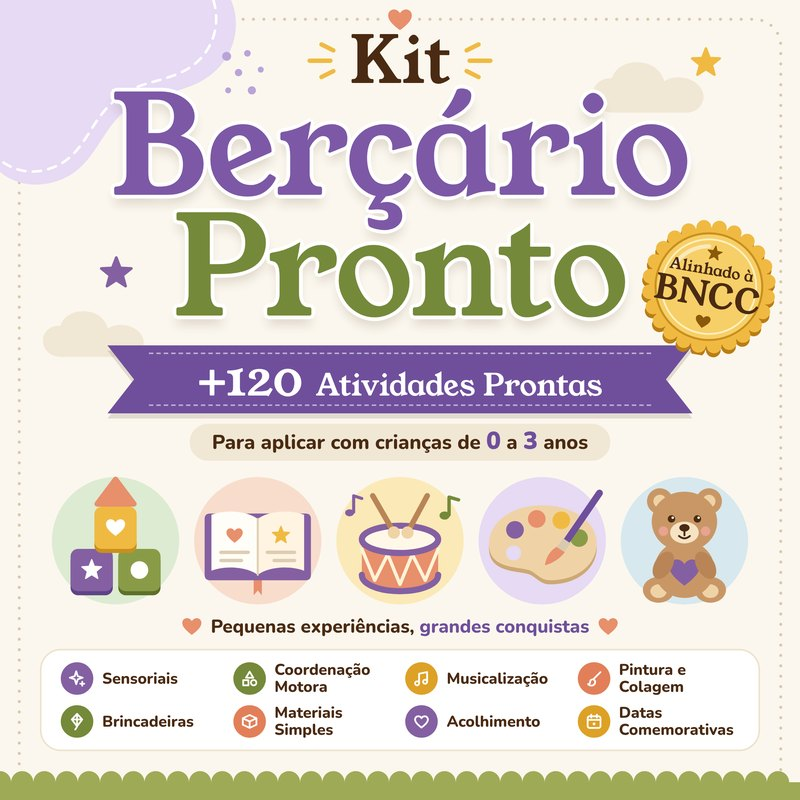
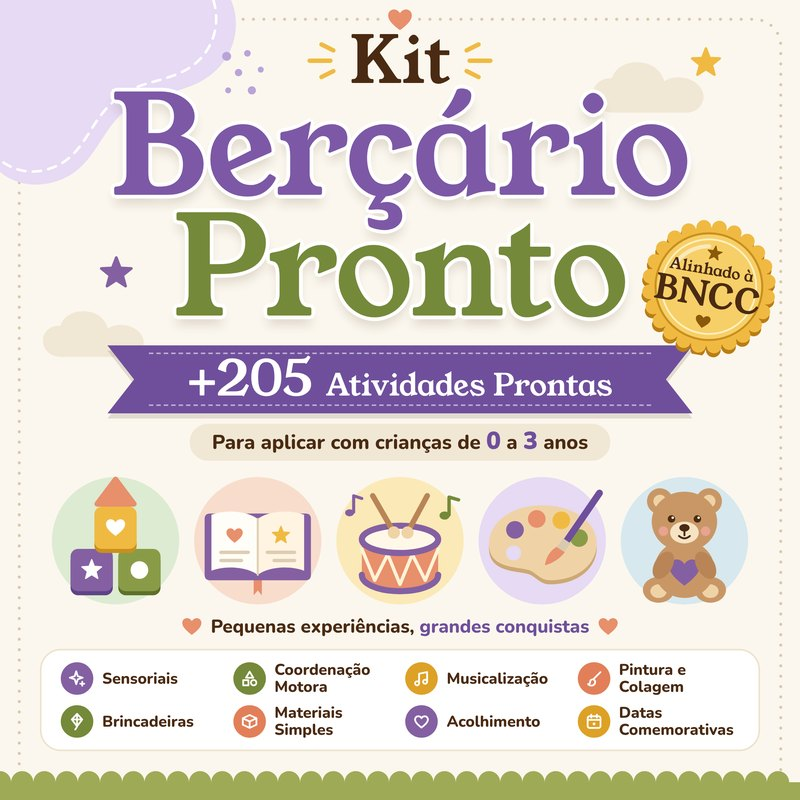
Kit Berçário Pronto: troca "+120 atividades" por "+205 atividades"
Atualiza o número no título da aba, na descrição, no título principal,
na lista da oferta e na imagem da capa.

Claude-Session: https://claude.ai/code/session_016UAMVbbsjxWbr1jZbnyStS

Changed region(s): [[0.2188, 0.4375, 0.7812, 0.5]]

diff --git a/public/kit-bercario-pronto/index.html b/public/kit-bercario-pronto/index.html
@@ -10,13 +10,13 @@
 <link rel="preconnect" href="https://connect.facebook.net">
 <link rel="preload" as="script" href="https://connect.facebook.net/en_US/fbevents.js">
 <script src="pixel.js" async></script>
-<title>Kit Berçário Pronto · +120 atividades para bebês de 0 a 3 anos</title>
-<meta name="description" content="+120 atividades prontas para brincar e estimular seu bebê de 0 a 3 anos. Material digital em PDF, alinhado à BNCC, para imprimir ou abrir no celular.">
+<title>Kit Berçário Pronto · +205 atividades para bebês de 0 a 3 anos</title>
+<meta name="description" content="+205 atividades prontas para brincar e estimular seu bebê de 0 a 3 anos. Material digital em PDF, alinhado à BNCC, para imprimir ou abrir no celular.">
 <meta name="theme-color" content="#6F4F9C">
 <meta property="og:type" content="website">
 <meta property="og:url" content="https://lwxbg.github.io/landing-pages-1/kit-bercario-pronto/">
 <meta property="og:title" content="Kit Berçário Pronto">
-<meta property="og:description" content="+120 atividades prontas para brincar e estimular seu bebê de 0 a 3 anos.">
+<meta property="og:description" content="+205 atividades prontas para brincar e estimular seu bebê de 0 a 3 anos.">
 <meta property="og:image" content="https://lwxbg.github.io/landing-pages-1/kit-bercario-pronto/assets/capa.jpg">
 <link rel="icon" type="image/png" href="assets/icone.png">
 <meta name="referrer" content="strict-origin-when-cross-origin">
@@ -56,7 +56,7 @@
 <span>Para mães e educadoras de bebês</span>
 </div>
 
-<h1 class="k13 kbp-in">+120 atividades prontas para brincar e estimular seu bebê de <span class="k14">0 a 3 anos<svg class="k15 kbp-draw" viewBox="0 0 200 14" aria-hidden="true"><path d="M3 9 C 36 2 66 13 100 7 C 134 1 166 12 197 6" pathLength="1" fill="none" stroke="#F0BA42" stroke-width="5" stroke-linecap="round"></path></svg></span></h1>
+<h1 class="k13 kbp-in">+205 atividades prontas para brincar e estimular seu bebê de <span class="k14">0 a 3 anos<svg class="k15 kbp-draw" viewBox="0 0 200 14" aria-hidden="true"><path d="M3 9 C 36 2 66 13 100 7 C 134 1 166 12 197 6" pathLength="1" fill="none" stroke="#F0BA42" stroke-width="5" stroke-linecap="round"></path></svg></span></h1>
 
 <p class="k16 kbp-in">Chega de ficar sem ideia do que fazer. As atividades já vêm com objetivo, materiais simples e passo a passo: é só abrir o PDF e brincar.</p>
 
@@ -174,7 +174,7 @@
 <div class="k53">Kit completo em PDF</div>
 <h2 class="k54">Kit Berçário Pronto</h2>
 <ul class="k55">
-<li class="k56"><svg class="k57" width="22" height="22" viewBox="0 0 24 24" aria-hidden="true"><circle cx="12" cy="12" r="10" fill="#5F7A2A"></circle><path d="M7.5 12.4 L10.6 15.5 L16.6 9" fill="none" stroke="#FFFFFF" stroke-width="2.4" stroke-linecap="round" stroke-linejoin="round"></path></svg><span>+120 atividades para crianças de 0 a 3 anos</span></li>
+<li class="k56"><svg class="k57" width="22" height="22" viewBox="0 0 24 24" aria-hidden="true"><circle cx="12" cy="12" r="10" fill="#5F7A2A"></circle><path d="M7.5 12.4 L10.6 15.5 L16.6 9" fill="none" stroke="#FFFFFF" stroke-width="2.4" stroke-linecap="round" stroke-linejoin="round"></path></svg><span>+205 atividades para crianças de 0 a 3 anos</span></li>
 <li class="k56"><svg class="k57" width="22" height="22" viewBox="0 0 24 24" aria-hidden="true"><circle cx="12" cy="12" r="10" fill="#5F7A2A"></circle><path d="M7.5 12.4 L10.6 15.5 L16.6 9" fill="none" stroke="#FFFFFF" stroke-width="2.4" stroke-linecap="round" stroke-linejoin="round"></path></svg><span>8 materiais em PDF, com 195 páginas</span></li>
 <li class="k56"><svg class="k57" width="22" height="22" viewBox="0 0 24 24" aria-hidden="true"><circle cx="12" cy="12" r="10" fill="#5F7A2A"></circle><path d="M7.5 12.4 L10.6 15.5 L16.6 9" fill="none" stroke="#FFFFFF" stroke-width="2.4" stroke-linecap="round" stroke-linejoin="round"></path></svg><span>Alinhado à BNCC</span></li>
 <li class="k56"><svg class="k57" width="22" height="22" viewBox="0 0 24 24" aria-hidden="true"><circle cx="12" cy="12" r="10" fill="#5F7A2A"></circle><path d="M7.5 12.4 L10.6 15.5 L16.6 9" fill="none" stroke="#FFFFFF" stroke-width="2.4" stroke-linecap="round" stroke-linejoin="round"></path></svg><span>Para imprimir ou abrir no celular</span></li>
